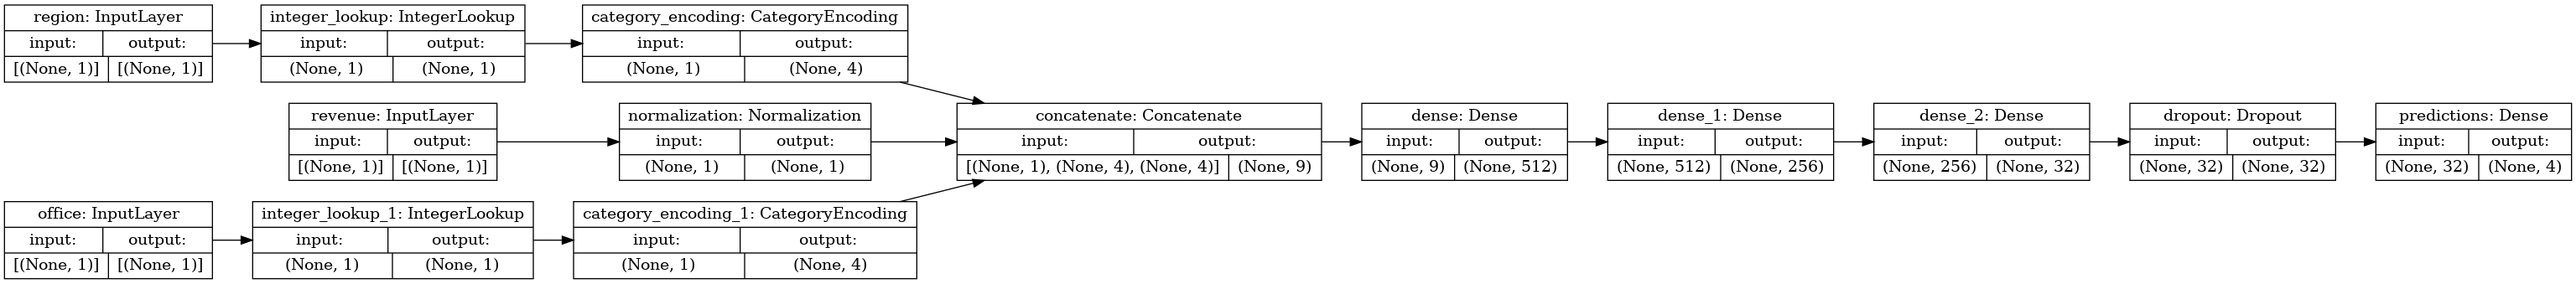
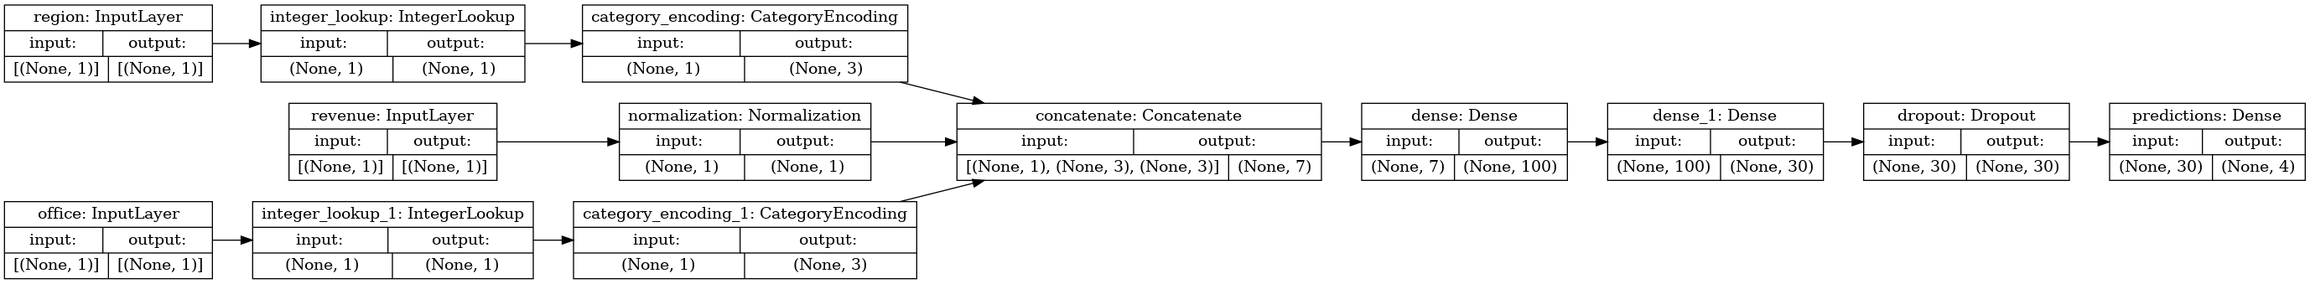
Minor changes in preprocessing layer

diff --git a/evaluate_segment.py b/evaluate_segment.py
@@ -8,6 +8,7 @@ from tensorflow import keras
 import pandas as pd
 import numpy as np
 import datetime
+import json
 
 CSV_COLUMN_NAMES = ['region', 'office', 'revenue', 'segment']
 LABELS = ['mini', 'micro', 'mellan', 'stor']
@@ -61,10 +62,10 @@ with tf.device("/device:gpu:0"):
     #print(dftrain.dtypes)
     #print("------------------------------------------------------------------------")
     #
-    print("--dftrain.head() -------------------------------------------------------")
-    print(dftrain.head())
-    print("--dfeval.head() --------------------------------------------------------")
-    print(dfeval.head())
+    #print("--dftrain.head() -------------------------------------------------------")
+    #print(dftrain.head())
+    #print("--dfeval.head() --------------------------------------------------------")
+    #print(dfeval.head())
     #
     # SEGMENTS = dftrain["Segment"].unique()
     y_train = dftrain.pop('segment')
@@ -72,11 +73,11 @@ with tf.device("/device:gpu:0"):
     #print(SEGMENTS)
     #print("-- dftrain.head() ------------------------------------------------------")
     #print(dftrain.head())
-    print("-- dfeval.head() -------------------------------------------------------")
-    print(dfeval.head())
+    #print("-- dfeval.head() -------------------------------------------------------")
+    #print(dfeval.head())
     #print("-y_train format --------------------------------------------------------")
     #print("{}".format(y_train))
-    print("------------------------------------------------------------------------")
+    #print("------------------------------------------------------------------------")
     #
     #CATEGORICAL_COLUMNS = ['Region', 'Office']
     #NUMERIC_COLUMNS = ['Revenue']
@@ -94,8 +95,8 @@ with tf.device("/device:gpu:0"):
     my_feature_columns = []
     for key in dftrain.keys():
         my_feature_columns.append(tf.feature_column.numeric_column(key=key))
-    print("-my_feature_columns ------------------------------------------------------")
-    print(my_feature_columns)
+    #print("-my_feature_columns ------------------------------------------------------")
+    #print(my_feature_columns)
     #print("------------------------------------------------------------------------")
     #   
      # Build a DNN with 2 hidden layers with 30 and 10 hidden nodes each.
@@ -119,4 +120,6 @@ with tf.device("/device:gpu:0"):
     eval_result = classifier.evaluate(
         input_fn=lambda: input_fn1(dfeval, y_eval, training=False))
 
-    print('\nTest set accuracy: {accuracy:0.3f}\n'.format(**eval_result))
+    data = eval_result
+    print(data)
+    print('\nTest set accuracy: {:3.2f}% loss: {:3.4f}%\n'.format(data['accuracy']*100, data['loss']*100))

diff --git a/train_preprocessing_layers.py b/train_preprocessing_layers.py
@@ -97,7 +97,7 @@ import pathlib
 CSV_COLUMN_NAMES = ['region', 'office', 'revenue', 'segment']
 # Target column to predict
 LABELS = ['mini', 'micro', 'mellan', 'stor']
-SPECIES = ['mini', 'micro', 'mellan', 'stor']
+#
 model_name = 'saved_model/my_segment_classifier'
 
 print("Using nvidia 2070 super, 2560 Cuda GPU cores")
@@ -130,8 +130,8 @@ dataframe = dataframe.drop(columns=['segment'])
 The dataset you downloaded was a single CSV file. You will split this into train, validation, and test sets.
 """
 
-train, test = train_test_split(dataframe, test_size=0.2)
-train, val = train_test_split(train, test_size=0.2)
+train, test = train_test_split(dataframe, test_size=0.3)
+train, val = train_test_split(train, test_size=0.3)
 print(len(train), 'train examples')
 print(len(val), 'validation examples')
 print(len(test), 'test examples')
@@ -209,13 +209,10 @@ feature is 0 and its standard deviation is 1.
 def get_normalization_layer(name, dataset):
   # Create a Normalization layer for our feature.
   normalizer = preprocessing.Normalization()
-
   # Prepare a Dataset that only yields our feature.
   feature_ds = dataset.map(lambda x, y: x[name])
-
   # Learn the statistics of the data.
   normalizer.adapt(feature_ds)
-
   return normalizer
 
 #revenue_count_col = train_features['Revenue']
@@ -353,14 +350,13 @@ print(encoded_features)
 print("--------------------------------")
 
 all_features = tf.keras.layers.concatenate(encoded_features)
-x = tf.keras.layers.Dense(512, activation="relu")(all_features)
-x = tf.keras.layers.Dense(256, activation="relu")(x)
-x = tf.keras.layers.Dense(32, activation="relu")(x)
+x = tf.keras.layers.Dense(100, activation="relu")(all_features)
+x = tf.keras.layers.Dense(30, activation="relu")(x)
 x = tf.keras.layers.Dropout(0.1)(x)
 output = tf.keras.layers.Dense(4, activation="softmax", name="predictions")(x)
 model = tf.keras.Model(inputs=all_inputs, outputs=output)
 model.compile(optimizer='adam', 
-              loss=tf.keras.losses.SparseCategoricalCrossentropy(from_logits=False),
+              loss=tf.keras.losses.SparseCategoricalCrossentropy(from_logits=True),
               metrics=["accuracy"])
 model.summary()
 # Let's visualize our connectivity graph:
@@ -402,5 +398,5 @@ TensorFlow models.
 """
 
 model.save(model_name)
-print("End training - loss: {:2.4f} Accuracy {:3.2f}%".format(loss, 100 * accuracy))
+print("End training - loss: {:3.4f} Accuracy {:3.2f}%".format(loss * 100, 100 * accuracy))
 print("Model has been save {}...".format(model_name))

diff --git a/predict_preprocessing_layers.py b/predict_preprocessing_layers.py
@@ -44,7 +44,6 @@ import tensorflow as tf
 #CSV_COLUMN_NAMES = ['region', 'office', 'revenue', 'segment']
 # Target column to predict
 LABELS = ['mini', 'micro', 'mellan', 'stor']
-SPECIES = ['mini', 'micro', 'mellan', 'stor']
 
 print("Predicition using nvidia 2070 super GPU, 2560 Cuda cores...")
 
@@ -73,7 +72,7 @@ predict_x1 = {
 #        'revenue': [395000.0, 1750000],
 #}
 
-# -----------------------------------------------------------------------------------------
+# ------------------------------------------------------------------------------------
 print("------------------------------------------------------------------------------")
 input_dict = {name: tf.convert_to_tensor([value]) for name, value in predict_x.items()}
 print('-------------------------------------')

diff --git a/predict_segment.py b/predict_segment.py
@@ -12,7 +12,7 @@ import datetime
 print("Tensorflow version: {}".format(tf.version.VERSION))
 print("Num GPUs Available: ", len(tf.config.experimental.list_physical_devices('GPU')))
 print("Num CPUs Available: ", len(tf.config.experimental.list_physical_devices('CPU')))
-COLUMN_NAMES = ['Region', 'Office', 'Revenue']
+COLUMN_NAMES = ['region', 'office', 'revenue']
 SPECIES = ['mini', 'micro', 'mellan', 'stor']
 
 with tf.device("/device:gpu:0"):

diff --git a/readme.md b/readme.md
@@ -90,4 +90,10 @@ Distribution for each region/office is:
 |Office|Integer|Categorical column
 |Revenue|float64|Feature column
 |Segment|Integer|Target (label)
-    
+
+
+## Articles
+
+## Demonstration of TensorFlow Feature Columns (tf.feature_column)
+
+https://medium.com/ml-book/demonstration-of-tensorflow-feature-columns-tf-feature-column-3bfcca4ca5c4
